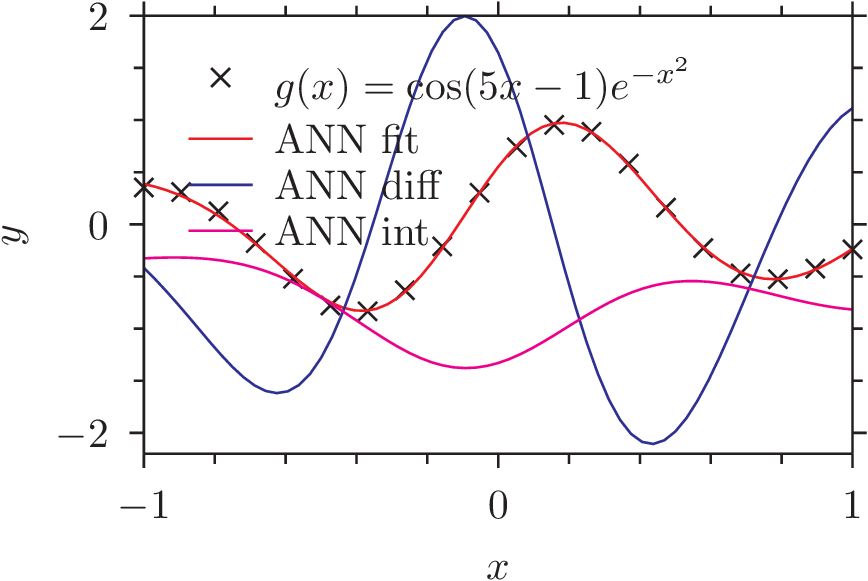
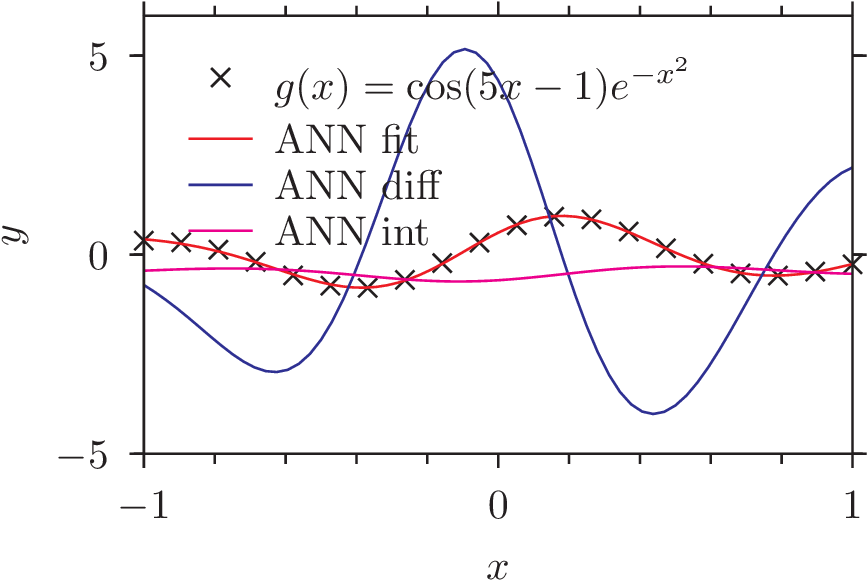
Corrected differential

diff --git a/homeworks/neuralnetwork/b/ann.cs b/homeworks/neuralnetwork/b/ann.cs
@@ -25,13 +25,13 @@ public class ANN {
 		}
 	}
 	
-	private double Fp(double x, vector q, Func<double, double> func) {
+	private double Fp(double x, vector q, Func<double, double> func, int modify=0) {
 		double sum = 0;
 		for (int i=0; i<n; i++) {
 			double ai = q[i + 0*n];
 			double bi = q[i + 1*n];
 			double wi = q[i + 2*n];
-			sum += func((x - ai)/bi) * wi;
+			sum += func((x - ai)/bi) * wi * Pow(bi, modify);
 		}
 		return sum;
 	}
@@ -41,11 +41,11 @@ public class ANN {
 	}
 
 	public double Response_diff(double x) {
-		return Fp(x, this.p, this.f_diff);
+		return Fp(x, this.p, this.f_diff, modify:-1);
 	}
 
 	public double Response_int(double x) {
-		return Fp(x, this.p, this.f_int);
+		return Fp(x, this.p, this.f_int, modify:1);
 	}
 
 	public void Train(vector x, vector y) {
